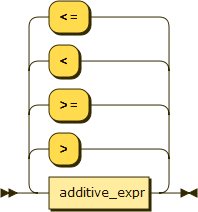
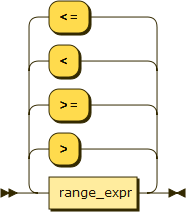
Moving range from constant to expression

diff --git a/EBNF.md b/EBNF.md
@@ -15,6 +15,7 @@
   - [binding](#binding)
   - [expr](#expr)
   - [relational_expr](#relational_expr)
+  - [range_expr](#range_expr)
   - [additive_expr](#additive_expr)
   - [multiplicative_expr](#multiplicative_expr)
   - [power_expr](#power_expr)
@@ -146,17 +147,29 @@ expr ::= relational_expr
 
 ###### relational\_expr
 ```EBNF
-relational_expr ::= additive_expr
-                  | (relational_expr '>' additive_expr)
-                  | (relational_expr '>=' additive_expr)
-                  | (relational_expr '<' additive_expr)
-                  | (relational_expr '<=' additive_expr)
+relational_expr ::= range_expr
+                  | (relational_expr '>' range_expr)
+                  | (relational_expr '>=' range_expr)
+                  | (relational_expr '<' range_expr)
+                  | (relational_expr '<=' range_expr)
 ```
 <p align="left">
   <a href="">
     <img alt="RelationalExpr" src="./img/relational_expr.png" />
   </a>
 </p>
+
+###### range\_expr
+```EBNF
+range_expr ::= additive_expr
+             | (range_expr '..' additive_expr)
+```
+<p align="left">
+  <a href="">
+    <img alt="RangeExpr" src="./img/range_expr.png" />
+  </a>
+</p>
+
 
 ###### additive\_expr
 ```EBNF
@@ -297,7 +310,6 @@ identifier ::= (letter | start_symbol) (letter | digit | start_symbol | other_sy
 ```EBNF
 constant ::= number
            | char
-           | range
            | tuple
            | set
 ```
